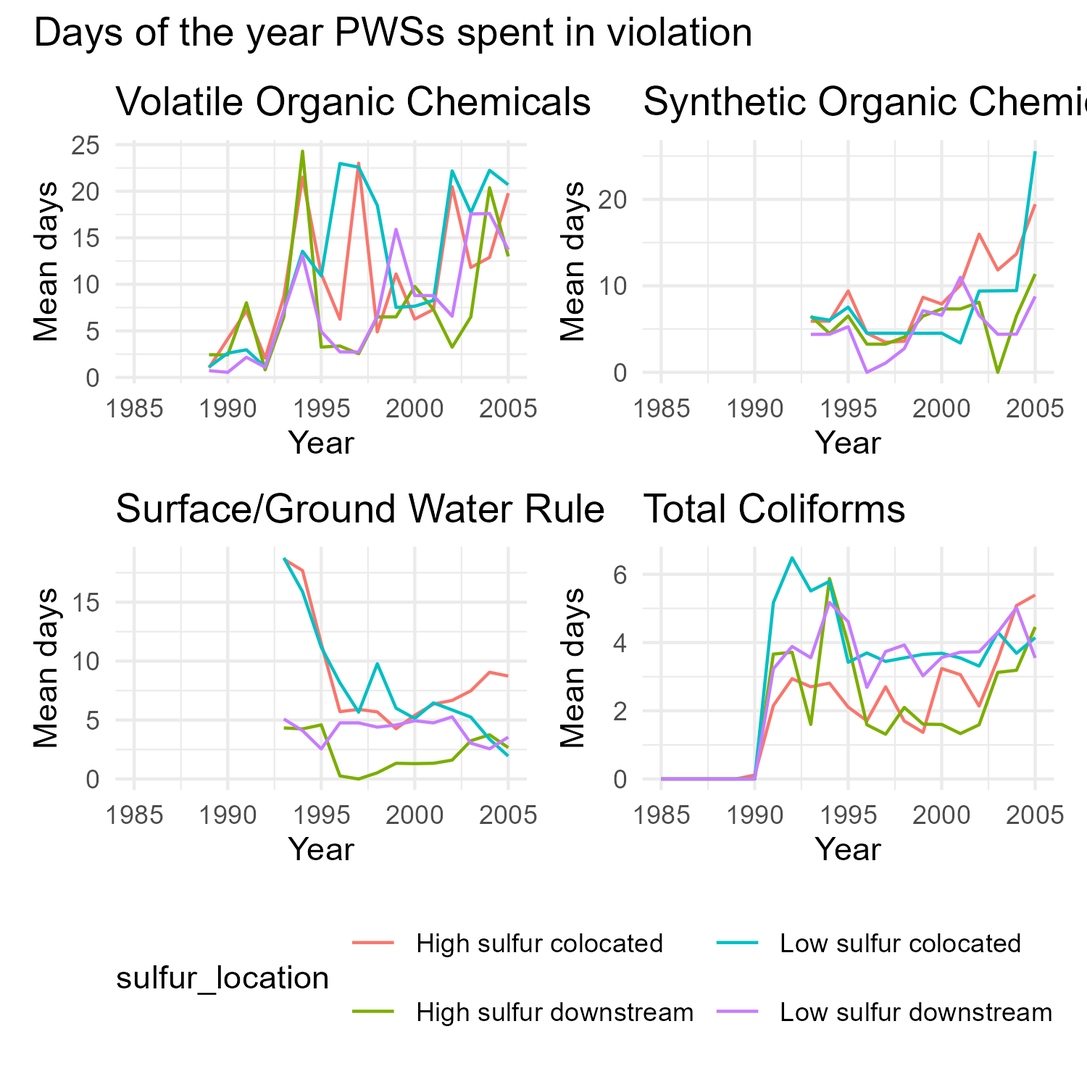
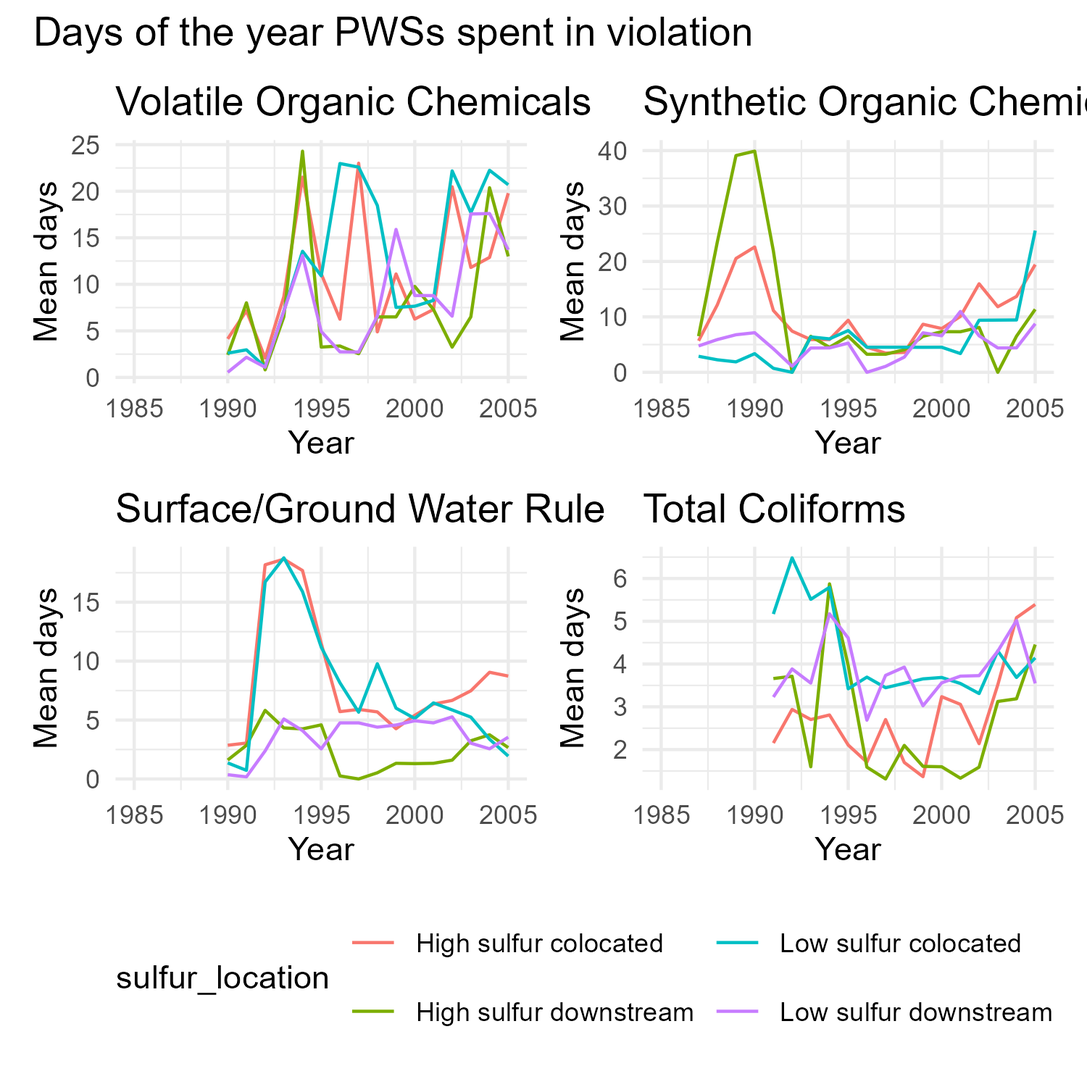
Switch non-mining NaN cutoffs to data-driven dates (first recorded violations in SDWIS)
Previously cutoffs were federal compliance deadlines: VOC <1989, SOC/SWTR <1993.
New cutoffs reflect when violations were first observed in SDWIS trend data:
total_coliform <1991 (new), VOC <1990, SOC <1987, SWTR <1990.

Data-driven dates extend sample periods enough for downstream-only IV to identify:
SOC n=5,559 (was entirely dropped), SWTR/VOC n=4,582 (was dropped). Parquet rebuilt;
all 6 non-mining regression tables regenerated; non-mining trend figures updated.

diff --git a/output/reg/2sls_dwnstrmcolocate_nonminevio_mr.tex b/output/reg/2sls_dwnstrmcolocate_nonminevio_mr.tex
@@ -15,26 +15,26 @@
          
           & \multicolumn{3}{c}{Total coliform (MR)} & \multicolumn{3}{c}{S/G water rule (MR)} & \multicolumn{3}{c}{VOCs (MR)} & \multicolumn{3}{c}{SOCs (MR)}\\
          
-                                                          & (1)           & (2)                   & (3)                   & (4)                   & (5)            & (6)           & (7)           & (8)           & (9)           & (10)           & (11)          & (12)\\  
+                                                          & (1)                   & (2)            & (3)           & (4)           & (5)                   & (6)                   & (7)           & (8)           & (9)           & (10)          & (11)          & (12)\\  
          
          \midrule 
-         num\_coal\_mines\_unified                        & 0.1119        &                       & -0.1252               & -0.0112               &                & -8.217$^{*}$  & -1.600        &               & 24.92         & -4.131$^{***}$ &               & -46.05\\   
-                                                          & (0.0722)      &                       & (2.181)               & (0.0859)              &                & (4.905)       & (1.078)       &               & (19.36)       & (1.416)        &               & (35.39)\\   
-         post95 $\times$ sulfur\_unified                  &               & 0.0078                &                       &                       & 0.2772$^{***}$ &               &               & -1.165$^{*}$  &               &                & 1.553         &   \\   
-                                                          &               & (0.1361)              &                       &                       & (0.1023)       &               &               & (0.6982)      &               &                & (0.9808)      &   \\   
+         num\_coal\_mines\_unified                        & 0.0801                &                & -15.43$^{*}$  & 0.1015$^{*}$  &                       & 1.174                 & -2.030$^{*}$  &               & 36.13         & -0.8699       &               & 41.31$^{*}$\\   
+                                                          & (0.1084)              &                & (8.710)       & (0.0599)      &                       & (2.295)               & (1.201)       &               & (28.01)       & (0.8070)      &               & (24.69)\\   
+         post95 $\times$ sulfur\_unified                  &                       & 0.6547$^{***}$ &               &               & -0.0444               &                       &               & -1.367$^{*}$  &               &               & -2.112$^{**}$ &   \\   
+                                                          &                       & (0.2425)       &               &               & (0.0843)              &                       &               & (0.7331)      &               &               & (1.031)       &   \\   
          
           \\
          
-         Observations                                     & 19,450        & 19,450                & 19,450                & 11,204                & 11,204         & 11,204        & 15,244        & 15,244        & 15,244        & 11,204         & 11,204        & 11,204\\  
-         R$^2$                                            & 0.16051       & 0.16038               & 0.16038               & 0.26037               & 0.26085        & 0.26085       & 0.17033       & 0.16987       & 0.16987       & 0.27450        & 0.27111       & 0.27111\\  
-         Within R$^2$                                     & 0.00021       & $5.06\times 10^{-5}$  & $5.06\times 10^{-5}$  & $7.89\times 10^{-5}$  & 0.00072        & 0.00072       & 0.00072       & 0.00017       & 0.00017       & 0.00489        & 0.00023       & 0.00023\\  
-         F-test (1st stage), num\_coal\_mines\_unified    &               &                       & 26.636                &                       &                & 3.8886        &               &               & 13.000        &                &               & 3.8886\\  
+         Observations                                     & 13,190                & 13,190         & 13,190        & 14,212        & 14,212                & 14,212                & 14,212        & 14,212        & 14,212        & 17,325        & 17,325        & 17,325\\  
+         R$^2$                                            & 0.20174               & 0.20265        & 0.20265       & 0.26572       & 0.26550               & 0.26550               & 0.17981       & 0.17913       & 0.17913       & 0.20405       & 0.20430       & 0.20430\\  
+         Within R$^2$                                     & $6.54\times 10^{-5}$  & 0.00121        & 0.00121       & 0.00036       & $6.09\times 10^{-5}$  & $6.09\times 10^{-5}$  & 0.00102       & 0.00020       & 0.00020       & 0.00028       & 0.00061       & 0.00061\\  
+         F-test (1st stage), num\_coal\_mines\_unified    &                       &                & 9.3758        &               &                       & 8.0066                &               &               & 8.0066        &               &               & 17.007\\  
          
           \\
          
-         PWSID fixed effects                              & $\checkmark$  & $\checkmark$          & $\checkmark$          & $\checkmark$          & $\checkmark$   & $\checkmark$  & $\checkmark$  & $\checkmark$  & $\checkmark$  & $\checkmark$   & $\checkmark$  & $\checkmark$\\   
-         STATE\_CODE fixed effects                        & $\checkmark$  & $\checkmark$          & $\checkmark$          & $\checkmark$          & $\checkmark$   & $\checkmark$  & $\checkmark$  & $\checkmark$  & $\checkmark$  & $\checkmark$   & $\checkmark$  & $\checkmark$\\   
-         year fixed effects                               & $\checkmark$  & $\checkmark$          & $\checkmark$          & $\checkmark$          & $\checkmark$   & $\checkmark$  & $\checkmark$  & $\checkmark$  & $\checkmark$  & $\checkmark$   & $\checkmark$  & $\checkmark$\\   
+         PWSID fixed effects                              & $\checkmark$          & $\checkmark$   & $\checkmark$  & $\checkmark$  & $\checkmark$          & $\checkmark$          & $\checkmark$  & $\checkmark$  & $\checkmark$  & $\checkmark$  & $\checkmark$  & $\checkmark$\\   
+         STATE\_CODE fixed effects                        & $\checkmark$          & $\checkmark$   & $\checkmark$  & $\checkmark$  & $\checkmark$          & $\checkmark$          & $\checkmark$  & $\checkmark$  & $\checkmark$  & $\checkmark$  & $\checkmark$  & $\checkmark$\\   
+         year fixed effects                               & $\checkmark$          & $\checkmark$   & $\checkmark$  & $\checkmark$  & $\checkmark$          & $\checkmark$          & $\checkmark$  & $\checkmark$  & $\checkmark$  & $\checkmark$  & $\checkmark$  & $\checkmark$\\   
          
          \bottomrule
          

diff --git a/output/reg/2sls_dwnstrmcolocate_nonminevio_allcat.tex b/output/reg/2sls_dwnstrmcolocate_nonminevio_allcat.tex
@@ -15,26 +15,26 @@
          
           & \multicolumn{3}{c}{Total coliform} & \multicolumn{3}{c}{S/G water rule} & \multicolumn{3}{c}{VOCs} & \multicolumn{3}{c}{SOCs}\\
          
-                                                          & (1)           & (2)           & (3)           & (4)           & (5)           & (6)           & (7)           & (8)           & (9)           & (10)           & (11)          & (12)\\  
+                                                          & (1)           & (2)           & (3)           & (4)           & (5)           & (6)           & (7)           & (8)           & (9)           & (10)          & (11)          & (12)\\  
          
          \midrule 
-         num\_coal\_mines\_unified                        & 0.1310$^{*}$  &               & 1.524         & 0.8955        &               & 46.97         & -1.568        &               & 24.40         & -4.112$^{***}$ &               & -43.31\\   
-                                                          & (0.0782)      &               & (2.314)       & (0.6378)      &               & (40.97)       & (1.079)       &               & (19.36)       & (1.416)        &               & (35.15)\\   
-         post95 $\times$ sulfur\_unified                  &               & -0.0951       &               &               & -1.584        &               &               & -1.140        &               &                & 1.461         &   \\   
-                                                          &               & (0.1426)      &               &               & (1.175)       &               &               & (0.7068)      &               &                & (0.9875)      &   \\   
+         num\_coal\_mines\_unified                        & 0.0914        &               & -15.25$^{*}$  & 1.015$^{**}$  &               & 42.01         & -1.994$^{*}$  &               & 35.38         & -0.8609       &               & 41.81$^{*}$\\   
+                                                          & (0.1217)      &               & (9.033)       & (0.4229)      &               & (29.05)       & (1.201)       &               & (27.95)       & (0.8072)      &               & (24.77)\\   
+         post95 $\times$ sulfur\_unified                  &               & 0.6470$^{**}$ &               &               & -1.589$^{*}$  &               &               & -1.339$^{*}$  &               &               & -2.137$^{**}$ &   \\   
+                                                          &               & (0.2584)      &               &               & (0.8135)      &               &               & (0.7439)      &               &               & (1.031)       &   \\   
          
           \\
          
-         Observations                                     & 19,450        & 19,450        & 19,450        & 11,204        & 11,204        & 11,204        & 15,244        & 15,244        & 15,244        & 11,204         & 11,204        & 11,204\\  
-         R$^2$                                            & 0.16727       & 0.16713       & 0.16713       & 0.58030       & 0.58029       & 0.58029       & 0.16984       & 0.16940       & 0.16940       & 0.27436        & 0.27098       & 0.27098\\  
-         Within R$^2$                                     & 0.00033       & 0.00017       & 0.00017       & 0.00213       & 0.00211       & 0.00211       & 0.00069       & 0.00016       & 0.00016       & 0.00484        & 0.00021       & 0.00021\\  
-         F-test (1st stage), num\_coal\_mines\_unified    &               &               & 26.636        &               &               & 3.8886        &               &               & 13.000        &                &               & 3.8886\\  
+         Observations                                     & 13,190        & 13,190        & 13,190        & 14,212        & 14,212        & 14,212        & 14,212        & 14,212        & 14,212        & 17,325        & 17,325        & 17,325\\  
+         R$^2$                                            & 0.20397       & 0.20475       & 0.20475       & 0.48516       & 0.48515       & 0.48515       & 0.17919       & 0.17854       & 0.17854       & 0.20394       & 0.20422       & 0.20422\\  
+         Within R$^2$                                     & 0.00017       & 0.00116       & 0.00116       & 0.00178       & 0.00176       & 0.00176       & 0.00098       & 0.00019       & 0.00019       & 0.00028       & 0.00062       & 0.00062\\  
+         F-test (1st stage), num\_coal\_mines\_unified    &               &               & 9.3758        &               &               & 8.0066        &               &               & 8.0066        &               &               & 17.007\\  
          
           \\
          
-         PWSID fixed effects                              & $\checkmark$  & $\checkmark$  & $\checkmark$  & $\checkmark$  & $\checkmark$  & $\checkmark$  & $\checkmark$  & $\checkmark$  & $\checkmark$  & $\checkmark$   & $\checkmark$  & $\checkmark$\\   
-         STATE\_CODE fixed effects                        & $\checkmark$  & $\checkmark$  & $\checkmark$  & $\checkmark$  & $\checkmark$  & $\checkmark$  & $\checkmark$  & $\checkmark$  & $\checkmark$  & $\checkmark$   & $\checkmark$  & $\checkmark$\\   
-         year fixed effects                               & $\checkmark$  & $\checkmark$  & $\checkmark$  & $\checkmark$  & $\checkmark$  & $\checkmark$  & $\checkmark$  & $\checkmark$  & $\checkmark$  & $\checkmark$   & $\checkmark$  & $\checkmark$\\   
+         PWSID fixed effects                              & $\checkmark$  & $\checkmark$  & $\checkmark$  & $\checkmark$  & $\checkmark$  & $\checkmark$  & $\checkmark$  & $\checkmark$  & $\checkmark$  & $\checkmark$  & $\checkmark$  & $\checkmark$\\   
+         STATE\_CODE fixed effects                        & $\checkmark$  & $\checkmark$  & $\checkmark$  & $\checkmark$  & $\checkmark$  & $\checkmark$  & $\checkmark$  & $\checkmark$  & $\checkmark$  & $\checkmark$  & $\checkmark$  & $\checkmark$\\   
+         year fixed effects                               & $\checkmark$  & $\checkmark$  & $\checkmark$  & $\checkmark$  & $\checkmark$  & $\checkmark$  & $\checkmark$  & $\checkmark$  & $\checkmark$  & $\checkmark$  & $\checkmark$  & $\checkmark$\\   
          
          \bottomrule
          

diff --git a/output/reg/2sls_dwnstrm_nonminevio_mcl.tex b/output/reg/2sls_dwnstrm_nonminevio_mcl.tex
@@ -10,31 +10,31 @@
       
       %start:tab
       
-      \begin{tabular}{lcccccc}
+      \begin{tabular}{lccccccccc}
          \toprule
          
-          & \multicolumn{3}{c}{Total coliform (MCL)} & \multicolumn{3}{c}{VOCs (MCL)}\\
+          & \multicolumn{3}{c}{Total coliform (MCL)} & \multicolumn{3}{c}{VOCs (MCL)} & \multicolumn{3}{c}{SOCs (MCL)}\\
          
-                                                           & (1)                  & (2)           & (3)           & (4)                   & (5)                  & (6)\\  
+                                                           & (1)                   & (2)                   & (3)                   & (4)                   & (5)                   & (6)                   & (7)                   & (8)                   & (9)\\  
          
          \midrule 
-         num\_coal\_mines\_upstream                        & 0.1136               &               & 1.274         & 0.0475                &                      & -0.6951\\   
-                                                           & (0.0968)             &               & (1.174)       & (0.1561)              &                      & (2.780)\\   
-         post95 $\times$ sulfur\_unified                   &                      & -0.1047       &               &                       & 0.0466               &   \\   
-                                                           &                      & (0.0955)      &               &                       & (0.1856)             &   \\   
+         num\_coal\_mines\_upstream                        & -0.0459               &                       & 0.3671                & 0.0087                &                       & -1.711                & 0.0159                &                       & -0.0179\\   
+                                                           & (0.1651)              &                       & (2.910)               & (0.1356)              &                       & (3.472)               & (0.0161)              &                       & (0.0223)\\   
+         post95 $\times$ sulfur\_unified                   &                       & -0.0188               &                       &                       & 0.1026                &                       &                       & 0.0013                &   \\   
+                                                           &                       & (0.1497)              &                       &                       & (0.2057)              &                       &                       & (0.0016)              &   \\   
          
           \\
          
-         Observations                                      & 6,225                & 6,225         & 6,225         & 4,904                 & 4,904                & 4,904\\  
-         R$^2$                                             & 0.10186              & 0.10199       & 0.10199       & 0.09802               & 0.09803              & 0.09803\\  
-         Within R$^2$                                      & $8.6\times 10^{-5}$  & 0.00023       & 0.00023       & $6.05\times 10^{-6}$  & $2.2\times 10^{-5}$  & $2.2\times 10^{-5}$\\   
-         F-test (1st stage), num\_coal\_mines\_upstream    &                      &               & 149.79        &                       &                      & 86.074\\  
+         Observations                                      & 4,254                 & 4,254                 & 4,254                 & 4,576                 & 4,576                 & 4,576                 & 5,556                 & 5,556                 & 5,556\\  
+         R$^2$                                             & 0.13219               & 0.13219               & 0.13219               & 0.09510               & 0.09519               & 0.09519               & 0.05576               & 0.05572               & 0.05572\\  
+         Within R$^2$                                      & $8.77\times 10^{-6}$  & $6.46\times 10^{-6}$  & $6.46\times 10^{-6}$  & $2.57\times 10^{-7}$  & $9.88\times 10^{-5}$  & $9.88\times 10^{-5}$  & $4.64\times 10^{-5}$  & $1.41\times 10^{-6}$  & $1.41\times 10^{-6}$\\   
+         F-test (1st stage), num\_coal\_mines\_upstream    &                       &                       & 42.623                &                       &                       & 64.228                &                       &                       & 110.37\\  
          
           \\
          
-         PWSID fixed effects                               & $\checkmark$         & $\checkmark$  & $\checkmark$  & $\checkmark$          & $\checkmark$         & $\checkmark$\\   
-         STATE\_CODE fixed effects                         & $\checkmark$         & $\checkmark$  & $\checkmark$  & $\checkmark$          & $\checkmark$         & $\checkmark$\\   
-         year fixed effects                                & $\checkmark$         & $\checkmark$  & $\checkmark$  & $\checkmark$          & $\checkmark$         & $\checkmark$\\   
+         PWSID fixed effects                               & $\checkmark$          & $\checkmark$          & $\checkmark$          & $\checkmark$          & $\checkmark$          & $\checkmark$          & $\checkmark$          & $\checkmark$          & $\checkmark$\\   
+         STATE\_CODE fixed effects                         & $\checkmark$          & $\checkmark$          & $\checkmark$          & $\checkmark$          & $\checkmark$          & $\checkmark$          & $\checkmark$          & $\checkmark$          & $\checkmark$\\   
+         year fixed effects                                & $\checkmark$          & $\checkmark$          & $\checkmark$          & $\checkmark$          & $\checkmark$          & $\checkmark$          & $\checkmark$          & $\checkmark$          & $\checkmark$\\   
          
          \bottomrule
          

diff --git a/output/reg/2sls_dwnstrmcolocate_nonminevio_mcl.tex b/output/reg/2sls_dwnstrmcolocate_nonminevio_mcl.tex
@@ -15,26 +15,26 @@
          
           & \multicolumn{3}{c}{Total coliform (MCL)} & \multicolumn{3}{c}{VOCs (MCL)} & \multicolumn{3}{c}{SOCs (MCL)}\\
          
-                                                          & (1)           & (2)           & (3)           & (4)                   & (5)                  & (6)                  & (7)           & (8)           & (9)\\  
+                                                          & (1)           & (2)           & (3)           & (4)                   & (5)                   & (6)                   & (7)                   & (8)           & (9)\\  
          
          \midrule 
-         num\_coal\_mines\_unified                        & 0.0464        &               & 1.586         & 0.0492                &                      & -0.9295              & 0.0193        &               & 2.740\\   
-                                                          & (0.0333)      &               & (1.109)       & (0.0370)              &                      & (2.428)              & (0.0175)      &               & (2.948)\\   
-         post95 $\times$ sulfur\_unified                  &               & -0.0990       &               &                       & 0.0435               &                      &               & -0.0924       &   \\   
-                                                          &               & (0.0624)      &               &                       & (0.1118)             &                      &               & (0.0978)      &   \\   
+         num\_coal\_mines\_unified                        & 0.0896        &               & -1.662        & 0.0551                &                       & -1.491                & 0.0090                &               & 0.4962\\   
+                                                          & (0.0738)      &               & (2.698)       & (0.0427)              &                       & (3.541)               & (0.0072)              &               & (0.5220)\\   
+         post95 $\times$ sulfur\_unified                  &               & 0.0705        &               &                       & 0.0564                &                       &                       & -0.0254       &   \\   
+                                                          &               & (0.1079)      &               &                       & (0.1309)              &                       &                       & (0.0261)      &   \\   
          
           \\
          
-         Observations                                     & 19,450        & 19,450        & 19,450        & 15,244                & 15,244               & 15,244               & 11,204        & 11,204        & 11,204\\  
-         R$^2$                                            & 0.10009       & 0.10016       & 0.10016       & 0.08212               & 0.08208              & 0.08208              & 0.07780       & 0.07895       & 0.07895\\  
-         Within R$^2$                                     & 0.00034       & 0.00042       & 0.00042       & $5.79\times 10^{-5}$  & $1.8\times 10^{-5}$  & $1.8\times 10^{-5}$  & 0.00021       & 0.00145       & 0.00145\\  
-         F-test (1st stage), num\_coal\_mines\_unified    &               &               & 26.636        &                       &                      & 13.000               &               &               & 3.8886\\  
+         Observations                                     & 13,190        & 13,190        & 13,190        & 14,212                & 14,212                & 14,212                & 17,325                & 17,325        & 17,325\\  
+         R$^2$                                            & 0.13496       & 0.13480       & 0.13480       & 0.08416               & 0.08413               & 0.08413               & 0.05343               & 0.05359       & 0.05359\\  
+         Within R$^2$                                     & 0.00068       & 0.00049       & 0.00049       & $6.52\times 10^{-5}$  & $2.73\times 10^{-5}$  & $2.73\times 10^{-5}$  & $8.86\times 10^{-5}$  & 0.00027       & 0.00027\\  
+         F-test (1st stage), num\_coal\_mines\_unified    &               &               & 9.3758        &                       &                       & 8.0066                &                       &               & 17.007\\  
          
           \\
          
-         PWSID fixed effects                              & $\checkmark$  & $\checkmark$  & $\checkmark$  & $\checkmark$          & $\checkmark$         & $\checkmark$         & $\checkmark$  & $\checkmark$  & $\checkmark$\\   
-         STATE\_CODE fixed effects                        & $\checkmark$  & $\checkmark$  & $\checkmark$  & $\checkmark$          & $\checkmark$         & $\checkmark$         & $\checkmark$  & $\checkmark$  & $\checkmark$\\   
-         year fixed effects                               & $\checkmark$  & $\checkmark$  & $\checkmark$  & $\checkmark$          & $\checkmark$         & $\checkmark$         & $\checkmark$  & $\checkmark$  & $\checkmark$\\   
+         PWSID fixed effects                              & $\checkmark$  & $\checkmark$  & $\checkmark$  & $\checkmark$          & $\checkmark$          & $\checkmark$          & $\checkmark$          & $\checkmark$  & $\checkmark$\\   
+         STATE\_CODE fixed effects                        & $\checkmark$  & $\checkmark$  & $\checkmark$  & $\checkmark$          & $\checkmark$          & $\checkmark$          & $\checkmark$          & $\checkmark$  & $\checkmark$\\   
+         year fixed effects                               & $\checkmark$  & $\checkmark$  & $\checkmark$  & $\checkmark$          & $\checkmark$          & $\checkmark$          & $\checkmark$          & $\checkmark$  & $\checkmark$\\   
          
          \bottomrule
          

diff --git a/output/reg/2sls_dwnstrm_nonminevio_mr.tex b/output/reg/2sls_dwnstrm_nonminevio_mr.tex
@@ -10,31 +10,31 @@
       
       %start:tab
       
-      \begin{tabular}{lcccccc}
+      \begin{tabular}{lcccccccccccc}
          \toprule
          
-          & \multicolumn{3}{c}{Total coliform (MR)} & \multicolumn{3}{c}{VOCs (MR)}\\
+          & \multicolumn{3}{c}{Total coliform (MR)} & \multicolumn{3}{c}{S/G water rule (MR)} & \multicolumn{3}{c}{VOCs (MR)} & \multicolumn{3}{c}{SOCs (MR)}\\
          
-                                                           & (1)           & (2)           & (3)           & (4)           & (5)           & (6)\\  
+                                                           & (1)           & (2)                   & (3)                   & (4)                   & (5)           & (6)           & (7)           & (8)           & (9)           & (10)          & (11)          & (12)\\  
          
          \midrule 
-         num\_coal\_mines\_upstream                        & -0.3580       &               & 3.438         & -3.539        &               & 11.29\\   
-                                                           & (0.2799)      &               & (2.454)       & (2.402)       &               & (17.62)\\   
-         post95 $\times$ sulfur\_unified                   &               & -0.2826       &               &               & -0.7565       &   \\   
-                                                           &               & (0.1892)      &               &               & (1.099)       &   \\   
+         num\_coal\_mines\_upstream                        & -0.8036$^{*}$ &                       & 2.575                 & 0.0776                &               & 1.664         & -4.080        &               & 15.71         & 4.893         &               & 60.89$^{**}$\\   
+                                                           & (0.4632)      &                       & (6.112)               & (0.2436)              &               & (2.043)       & (2.656)       &               & (21.91)       & (3.116)       &               & (28.36)\\   
+         post95 $\times$ sulfur\_unified                   &               & -0.1320               &                       &                       & -0.0998       &               &               & -0.9419       &               &               & -4.443$^{**}$ &   \\   
+                                                           &               & (0.3149)              &                       &                       & (0.1231)      &               &               & (1.202)       &               &               & (1.829)       &   \\   
          
           \\
          
-         Observations                                      & 6,225         & 6,225         & 6,225         & 4,904         & 4,904         & 4,904\\  
-         R$^2$                                             & 0.17348       & 0.17372       & 0.17372       & 0.13276       & 0.13242       & 0.13242\\  
-         Within R$^2$                                      & 0.00034       & 0.00063       & 0.00063       & 0.00049       & 0.00010       & 0.00010\\  
-         F-test (1st stage), num\_coal\_mines\_upstream    &               &               & 149.79        &               &               & 86.074\\  
+         Observations                                      & 4,254         & 4,254                 & 4,254                 & 4,576                 & 4,576         & 4,576         & 4,576         & 4,576         & 4,576         & 5,556         & 5,556         & 5,556\\  
+         R$^2$                                             & 0.21434       & 0.21384               & 0.21384               & 0.22433               & 0.22448       & 0.22448       & 0.13921       & 0.13882       & 0.13882       & 0.19687       & 0.19859       & 0.19859\\  
+         Within R$^2$                                      & 0.00070       & $7.25\times 10^{-5}$  & $7.25\times 10^{-5}$  & $3.59\times 10^{-5}$  & 0.00022       & 0.00022       & 0.00058       & 0.00013       & 0.00013       & 0.00107       & 0.00322       & 0.00322\\  
+         F-test (1st stage), num\_coal\_mines\_upstream    &               &                       & 42.623                &                       &               & 64.228        &               &               & 64.228        &               &               & 110.37\\  
          
           \\
          
-         PWSID fixed effects                               & $\checkmark$  & $\checkmark$  & $\checkmark$  & $\checkmark$  & $\checkmark$  & $\checkmark$\\   
-         STATE\_CODE fixed effects                         & $\checkmark$  & $\checkmark$  & $\checkmark$  & $\checkmark$  & $\checkmark$  & $\checkmark$\\   
-         year fixed effects                                & $\checkmark$  & $\checkmark$  & $\checkmark$  & $\checkmark$  & $\checkmark$  & $\checkmark$\\   
+         PWSID fixed effects                               & $\checkmark$  & $\checkmark$          & $\checkmark$          & $\checkmark$          & $\checkmark$  & $\checkmark$  & $\checkmark$  & $\checkmark$  & $\checkmark$  & $\checkmark$  & $\checkmark$  & $\checkmark$\\   
+         STATE\_CODE fixed effects                         & $\checkmark$  & $\checkmark$          & $\checkmark$          & $\checkmark$          & $\checkmark$  & $\checkmark$  & $\checkmark$  & $\checkmark$  & $\checkmark$  & $\checkmark$  & $\checkmark$  & $\checkmark$\\   
+         year fixed effects                                & $\checkmark$  & $\checkmark$          & $\checkmark$          & $\checkmark$          & $\checkmark$  & $\checkmark$  & $\checkmark$  & $\checkmark$  & $\checkmark$  & $\checkmark$  & $\checkmark$  & $\checkmark$\\   
          
          \bottomrule
          

diff --git a/output/reg/2sls_dwnstrm_nonminevio_allcat.tex b/output/reg/2sls_dwnstrm_nonminevio_allcat.tex
@@ -10,31 +10,31 @@
       
       %start:tab
       
-      \begin{tabular}{lcccccc}
+      \begin{tabular}{lcccccccccccc}
          \toprule
          
-          & \multicolumn{3}{c}{Total coliform} & \multicolumn{3}{c}{VOCs}\\
+          & \multicolumn{3}{c}{Total coliform} & \multicolumn{3}{c}{S/G water rule} & \multicolumn{3}{c}{VOCs} & \multicolumn{3}{c}{SOCs}\\
          
-                                                           & (1)           & (2)           & (3)           & (4)           & (5)                   & (6)\\  
+                                                           & (1)           & (2)                   & (3)                   & (4)           & (5)           & (6)           & (7)           & (8)           & (9)           & (10)          & (11)          & (12)\\  
          
          \midrule 
-         num\_coal\_mines\_upstream                        & -0.2964       &               & 4.641$^{*}$   & -3.542        &                       & 10.07\\   
-                                                           & (0.2942)      &               & (2.691)       & (2.402)       &                       & (17.53)\\   
-         post95 $\times$ sulfur\_unified                   &               & -0.3814$^{*}$ &               &               & -0.6749               &   \\   
-                                                           &               & (0.2003)      &               &               & (1.104)               &   \\   
+         num\_coal\_mines\_upstream                        & -0.8782$^{*}$ &                       & 2.642                 & 1.723         &               & 22.07         & -4.072        &               & 13.99         & 4.909         &               & 60.87$^{**}$\\   
+                                                           & (0.4773)      &                       & (6.438)               & (1.391)       &               & (15.43)       & (2.656)       &               & (21.76)       & (3.116)       &               & (28.36)\\   
+         post95 $\times$ sulfur\_unified                   &               & -0.1354               &                       &               & -1.324        &               &               & -0.8393       &               &               & -4.442$^{**}$ &   \\   
+                                                           &               & (0.3323)              &                       &               & (0.8607)      &               &               & (1.209)       &               &               & (1.829)       &   \\   
          
           \\
          
-         Observations                                      & 6,225         & 6,225         & 6,225         & 4,904         & 4,904                 & 4,904\\  
-         R$^2$                                             & 0.18166       & 0.18222       & 0.18222       & 0.13272       & 0.13238               & 0.13238\\  
-         Within R$^2$                                      & 0.00024       & 0.00093       & 0.00093       & 0.00049       & $8.45\times 10^{-5}$  & $8.45\times 10^{-5}$\\   
-         F-test (1st stage), num\_coal\_mines\_upstream    &               &               & 149.79        &               &                       & 86.074\\  
+         Observations                                      & 4,254         & 4,254                 & 4,254                 & 4,576         & 4,576         & 4,576         & 4,576         & 4,576         & 4,576         & 5,556         & 5,556         & 5,556\\  
+         R$^2$                                             & 0.21599       & 0.21549               & 0.21549               & 0.59997       & 0.60020       & 0.60020       & 0.13902       & 0.13862       & 0.13862       & 0.19677       & 0.19849       & 0.19849\\  
+         Within R$^2$                                      & 0.00071       & $6.42\times 10^{-5}$  & $6.42\times 10^{-5}$  & 0.00046       & 0.00103       & 0.00103       & 0.00057       & 0.00011       & 0.00011       & 0.00108       & 0.00321       & 0.00321\\  
+         F-test (1st stage), num\_coal\_mines\_upstream    &               &                       & 42.623                &               &               & 64.228        &               &               & 64.228        &               &               & 110.37\\  
          
           \\
          
-         PWSID fixed effects                               & $\checkmark$  & $\checkmark$  & $\checkmark$  & $\checkmark$  & $\checkmark$          & $\checkmark$\\   
-         STATE\_CODE fixed effects                         & $\checkmark$  & $\checkmark$  & $\checkmark$  & $\checkmark$  & $\checkmark$          & $\checkmark$\\   
-         year fixed effects                                & $\checkmark$  & $\checkmark$  & $\checkmark$  & $\checkmark$  & $\checkmark$          & $\checkmark$\\   
+         PWSID fixed effects                               & $\checkmark$  & $\checkmark$          & $\checkmark$          & $\checkmark$  & $\checkmark$  & $\checkmark$  & $\checkmark$  & $\checkmark$  & $\checkmark$  & $\checkmark$  & $\checkmark$  & $\checkmark$\\   
+         STATE\_CODE fixed effects                         & $\checkmark$  & $\checkmark$          & $\checkmark$          & $\checkmark$  & $\checkmark$  & $\checkmark$  & $\checkmark$  & $\checkmark$  & $\checkmark$  & $\checkmark$  & $\checkmark$  & $\checkmark$\\   
+         year fixed effects                                & $\checkmark$  & $\checkmark$          & $\checkmark$          & $\checkmark$  & $\checkmark$  & $\checkmark$  & $\checkmark$  & $\checkmark$  & $\checkmark$  & $\checkmark$  & $\checkmark$  & $\checkmark$\\   
          
          \bottomrule
          

diff --git a/code/coal_mining_water_quality/sdwismatch_pwsid_level_share_yr_in_violation.py b/code/coal_mining_water_quality/sdwismatch_pwsid_level_share_yr_in_violation.py
@@ -524,26 +524,31 @@ water_sys.year_pws_deactivated = water_sys.year_pws_deactivated.fillna(3000)
 
 water_sys = water_sys.fillna(0)
 
-# Set violation variables to NaN for years before rules were enacted.
-# Pre-rule years should be missing (not zero) since no monitoring was required.
+# Set violation variables to NaN for years before violations were first recorded in SDWIS.
+# Cutoffs are data-driven: first year of non-zero violations in trend figures.
 
-# VOC: Phase I Rule — compliance January 1, 1989
+# Total Coliform: first recorded violations 1991
+tc_cols = [c for c in water_sys.columns
+           if c.startswith('total_coliform') or
+           c in ['RULE_CODE_110.0', 'RULE_CODE_111.0']]
+water_sys.loc[water_sys['year'] < 1991, tc_cols] = np.nan
+
+# VOC: first recorded violations 1990
 voc_cols = [c for c in water_sys.columns
             if c.startswith('voc') or c == 'RULE_CODE_310.0']
-water_sys.loc[water_sys['year'] < 1989, voc_cols] = np.nan
+water_sys.loc[water_sys['year'] < 1990, voc_cols] = np.nan
 
-# SOC: Phase II/V Rules — compliance January 1, 1993
+# SOC: first recorded violations 1987
 soc_cols = [c for c in water_sys.columns
             if c.startswith('soc') or c == 'RULE_CODE_320.0']
-water_sys.loc[water_sys['year'] < 1993, soc_cols] = np.nan
+water_sys.loc[water_sys['year'] < 1987, soc_cols] = np.nan
 
-# Surface/Groundwater Treatment Rule — compliance July 1, 1993
-# Treat year < 1993 as pre-rule at annual frequency
+# Surface/Groundwater Treatment Rule: first recorded violations 1990
 sgwr_cols = [c for c in water_sys.columns
              if c.startswith('surface_ground_water_rule') or
              c in ['RULE_CODE_121.0', 'RULE_CODE_122.0',
                    'RULE_CODE_123.0', 'RULE_CODE_140.0']]
-water_sys.loc[water_sys['year'] < 1993, sgwr_cols] = np.nan
+water_sys.loc[water_sys['year'] < 1990, sgwr_cols] = np.nan
 
 water_sys["no_violation"] = np.where((water_sys["VIOLATION_CATEGORY_CODE_MCL"]==0) & 
                                      (water_sys["VIOLATION_CATEGORY_CODE_MON"]==0) &
